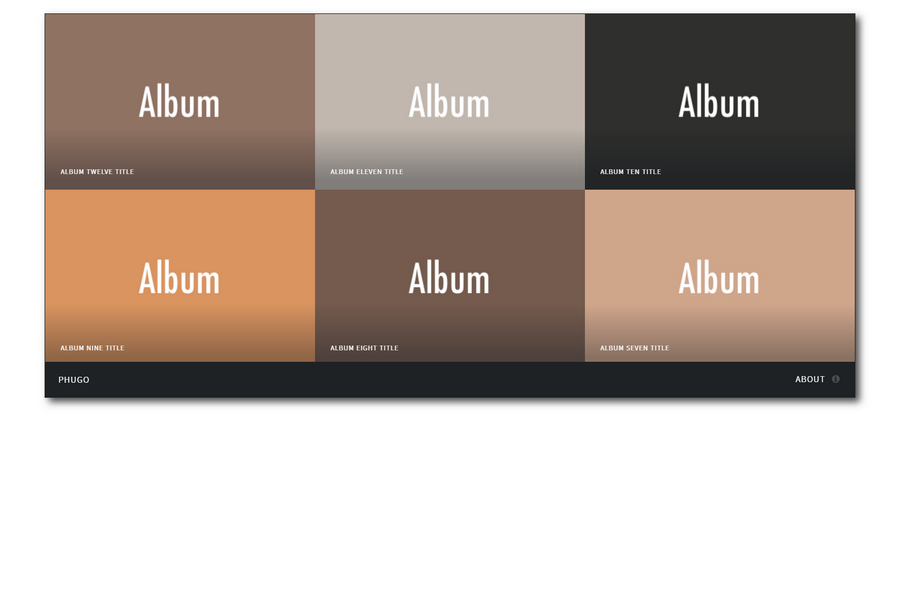
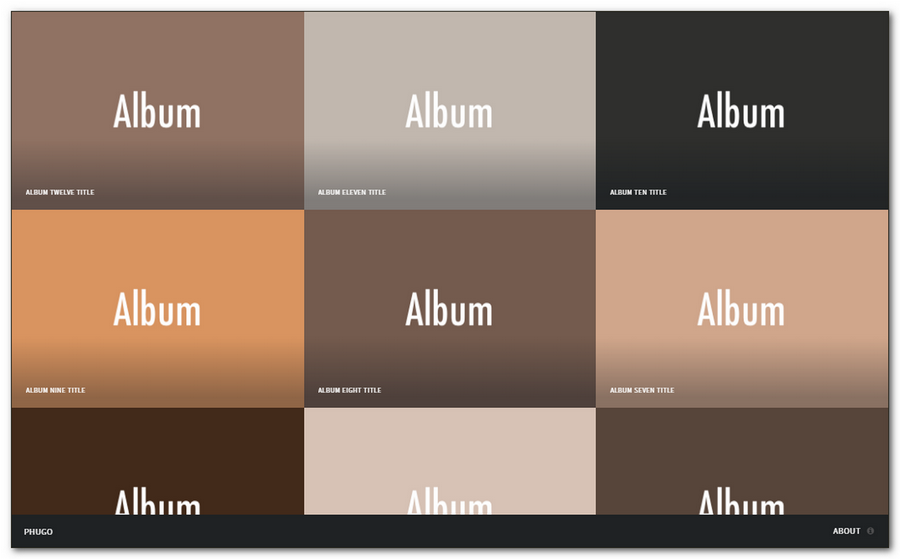
Better screenshots

diff --git a/README.md b/README.md
@@ -4,7 +4,7 @@ Phugo [ˈfjuːgəʊ] is a gallery/photoblog theme for Hugo. It is a port of HTML
 
 ## Screenshot
 
-![Orbit screenshot](https://raw.githubusercontent.com/aerohub/phugo/master/images/demo.png)
+![Orbit screenshot](https://raw.githubusercontent.com/aerohub/phugo/master/images/screenshot.png)
 
 ## Features
 
